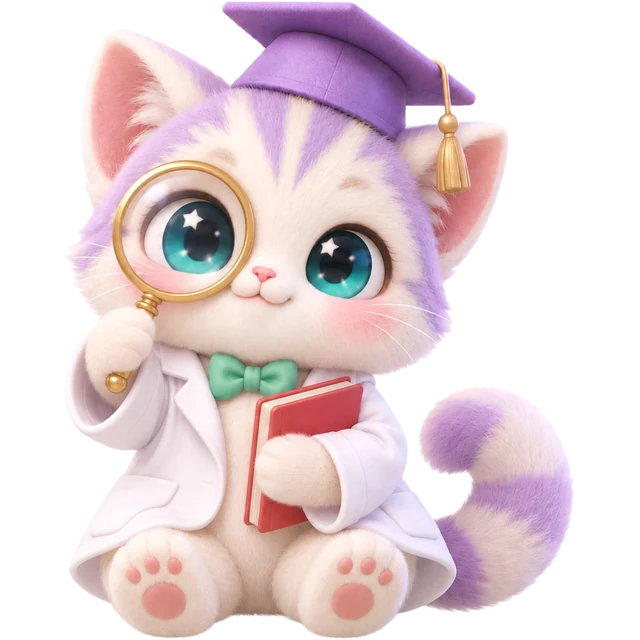
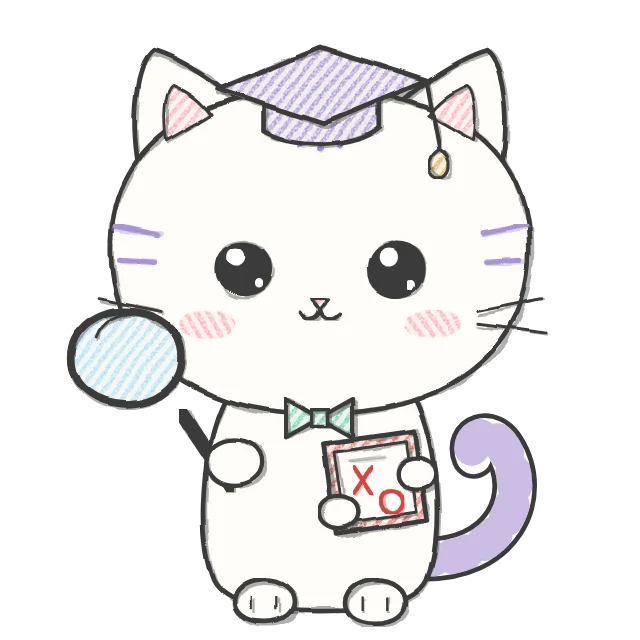
student-home: 박사 냥이 5종을 연필 손그림(귀염 A)으로 교체
아이들 반응 "너무 AI스럽다"로 화풍만 바꿈. 성향 5종·이름·말풍선은 그대로.
- img/cat 10장(기본+웃는 얼굴) 손그림 webp로 교체, 기준점 나비넥타이 자리로 재계산
- 그림 모드 왕관을 학사모 위로 올림
- me.html 캐시 버전 20261026

diff --git a/student-home-persona.js b/student-home-persona.js
@@ -1,1 +1,1 @@
[2 lines of base64/hex data omitted]

diff --git a/student-home-cat.js b/student-home-cat.js
@@ -155,7 +155,7 @@ window.CuteCat = {
       ${layer('bell','acc7','<path d="M160 191q40 15 80 0" stroke="#9d86d4" stroke-width="10" fill="none" stroke-linecap="round"/><path d="M162 189q38 13 76 0" stroke="#cbbcf0" stroke-width="3.5" fill="none" stroke-linecap="round"/><g class="bellg"><circle cx="200" cy="205" r="11" fill="url(#gold${u})" stroke="#c9963f" stroke-width="1.5"/><path d="M195 208h10m-5 0v5" stroke="#ac8856" stroke-width="2"/><circle cx="197" cy="201" r="2.5" fill="#fff3ce"/></g>')}
       ${layer('ribbon','acc14','<path d="M262 108q-34-32-32 1q0 14 31 7q32 14 28-6q-2-19-27-2" fill="#ed99b3" stroke="#d783a0" stroke-width="2"/><path d="M240 104q8 6 18 6M282 104q-8 6-18 6" stroke="#c86f8f" stroke-width="2" fill="none" opacity=".6"/><ellipse cx="241" cy="98" rx="5" ry="3" fill="#fff" opacity=".55" transform="rotate(-25 241 98)"/><ellipse cx="278" cy="99" rx="4" ry="2.5" fill="#fff" opacity=".45"/><circle cx="261" cy="112" r="8" fill="#f7bccf" stroke="#d783a0" stroke-width="1.5"/><circle cx="258" cy="109" r="2.5" fill="#fff" opacity=".7"/>')}
       ${layer('scarf','acc21','<path d="M158 192q42 18 84 0" fill="none" stroke="#8fc9c0" stroke-width="15" stroke-linecap="round"/><path d="M226 201v26" stroke="#8fc9c0" stroke-width="16" stroke-linecap="round"/><path d="M219 223h14" stroke="#d6f0e8" stroke-width="4"/><path d="M160 196q40 16 80 0" stroke="#6fb0a6" stroke-width="5" fill="none" stroke-linecap="round" opacity=".7"/><path d="M168 186q32 12 64 0" stroke="#c6ece4" stroke-width="3" fill="none" stroke-linecap="round" stroke-dasharray="3 5"/><path d="M226 206v14" stroke="#b5e3da" stroke-width="3" stroke-dasharray="3 4"/>')}
-            <g ${photo?'transform="translate(0 -30)"':''}>${layer('crown','acc30','<path d="M171 80l-8-31 23 16 14-28 14 28 23-16-8 31z" fill="url(#gold${u})" stroke="#c9963f" stroke-width="2"/><rect x="170" y="74" width="60" height="7" rx="3" fill="#e9b04f"/><circle cx="200" cy="68" r="5" fill="#f58fb0" stroke="#fff" stroke-width="1"/><circle cx="183" cy="74" r="3" fill="#7fd8bd"/><circle cx="217" cy="74" r="3" fill="#8fb8f0"/><path d="M178 60l4 12" stroke="#fff6d6" stroke-width="2.5" stroke-linecap="round" opacity=".8"/>')}</g>
+            <g ${photo?'transform="translate(0 -58)"':''}>${layer('crown','acc30','<path d="M171 80l-8-31 23 16 14-28 14 28 23-16-8 31z" fill="url(#gold${u})" stroke="#c9963f" stroke-width="2"/><rect x="170" y="74" width="60" height="7" rx="3" fill="#e9b04f"/><circle cx="200" cy="68" r="5" fill="#f58fb0" stroke="#fff" stroke-width="1"/><circle cx="183" cy="74" r="3" fill="#7fd8bd"/><circle cx="217" cy="74" r="3" fill="#8fb8f0"/><path d="M178 60l4 12" stroke="#fff6d6" stroke-width="2.5" stroke-linecap="round" opacity=".8"/>')}</g>
       </g>
     </g>
     ${layer('bowl','item1','<ellipse cx="91" cy="265" rx="25" ry="8" fill="#b5cfe4"/><path d="M65 255h52l-5 11q-22 9-43-1z" fill="#abc6e2"/><ellipse cx="91" cy="255" rx="26" ry="8" fill="#e6f2ff"/><ellipse cx="91" cy="255" rx="20" ry="5" fill="#fffdf3"/>')}

diff --git a/me.html b/me.html
@@ -592,7 +592,7 @@ function replyBody(t){
 //   · 저장은 이 기기 localStorage — **정본 아님**. 기기를 바꾸면 한 번 더 NEW 로 보일 뿐.
 //   · 원장 화면(TEACHER)에는 안 뜬다 — 아이 것을 원장이 대신 읽어치우면 안 되니까.
 // 🔖 배포 표식 — pre-commit 훅이 me.html 을 커밋할 때마다 자동으로 올린다(사람이 기억하지 않는다).
-const BUILD = '20261017-171956';
+const BUILD = '20261026-075813';
 // 🔄 페이지 캐시 무효화 (2026-09-13) — GitHub Pages 는 me.html 도 max-age=600 으로 준다.
 //   09-13 실측: 이다연 18:55~19:02 "오답노트 열기" 8회 = 답이 올라와 있는데 옛 화면을 보던 구간.
 //   (데이터는 refreshData 가 맡지만 페이지 파일 자체는 그대로였다)
@@ -1501,8 +1501,8 @@ document.addEventListener('DOMContentLoaded', function(){ render(); jumpTo(JUMP)
 <script src="question-inbox-links.js?v=20261017-repair1"></script>
 <script src="question-inbox.js?v=20261017-repair1"></script>
 <script src="student-home-core.js?v=20261016"></script>
-<script src="student-home-persona.js?v=20261016"></script>
-<script src="student-home-cat.js?v=20261016"></script>
+<script src="student-home-persona.js?v=20261026"></script>
+<script src="student-home-cat.js?v=20261026"></script>
 <script src="student-home-feed.js?v=20261011"></script>
 <script src="student-home.js?v=20261017-inbox"></script>
 </body>
